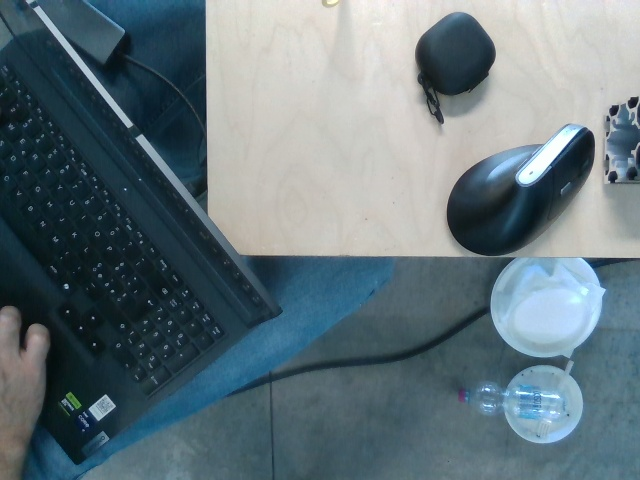
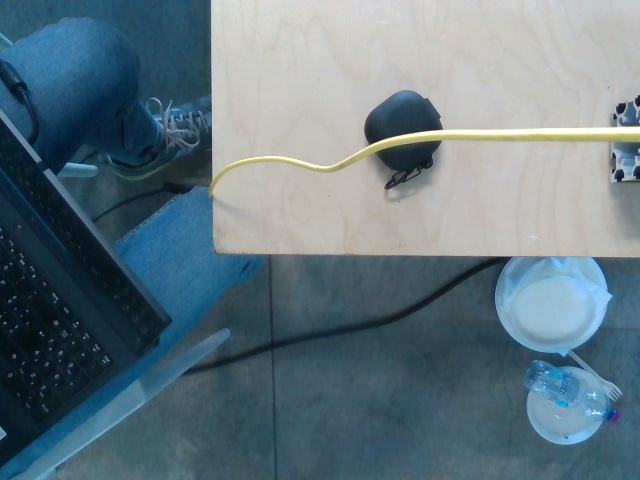
First working computer vision part

diff --git a/src/cyberwave_hackaton/detection/inference_live.py b/src/cyberwave_hackaton/detection/inference_live.py
@@ -1,7 +1,8 @@
 ''' 
 Sixth script: test the fine-tuned model.
 Captures a live frame from the RealSense camera when 'q' is pressed,
-then runs inference on it.
+then runs inference on it and computes the object pose w.r.t. the camera.
+Rotation around Z is estimated from the bounding box content using PCA.
 '''
 from ultralytics import YOLO
 from pathlib import Path
@@ -11,6 +12,8 @@ import cv2
 import numpy as np
 import pyrealsense2 as rs
 import os
+import glob
+from scipy.spatial.transform import Rotation
 
 # Imports for latex plots
 mpl.rcParams['text.usetex'] = True
@@ -21,10 +24,92 @@ import sys
 sys.path.append(os.path.dirname(os.path.abspath(__file__)))
 import fonts
 
+
+def euler_to_homogeneous(x, y, z, roll, pitch, yaw, degrees=True):
+    """
+    Build a 4x4 homogeneous matrix from translation and Euler angles.
+    Roll  = rotation around X
+    Pitch = rotation around Y
+    Yaw   = rotation around Z
+    Order: R = Rx @ Ry @ Rz (XYZ convention)
+    """
+    if degrees:
+        roll  = np.deg2rad(roll)
+        pitch = np.deg2rad(pitch)
+        yaw   = np.deg2rad(yaw)
+
+    Rx = np.array([[1,           0,            0],
+                   [0, np.cos(roll), -np.sin(roll)],
+                   [0, np.sin(roll),  np.cos(roll)]])
+
+    Ry = np.array([[ np.cos(pitch), 0, np.sin(pitch)],
+                   [0,              1,             0],
+                   [-np.sin(pitch), 0, np.cos(pitch)]])
+
+    Rz = np.array([[np.cos(yaw), -np.sin(yaw), 0],
+                   [np.sin(yaw),  np.cos(yaw), 0],
+                   [0,            0,            1]])
+
+    R = Rx @ Ry @ Rz
+
+    T = np.eye(4)
+    T[:3, :3] = R
+    T[:3, 3]  = [x, y, z]
+
+    return T
+
+
+def pixels_to_camera(u, v, z_c, fx, fy, cx, cy):
+    """
+    Convert pixel coordinates (u, v) to camera frame 3D coordinates
+    using the pinhole model.
+    """
+    X_c = (u - cx) * z_c / fx
+    Y_c = (v - cy) * z_c / fy
+    Z_c = z_c
+    return X_c, Y_c, Z_c
+
+
+def estimate_theta_z_from_box(image, x1, y1, x2, y2):
+    crop = image[int(y1):int(y2), int(x1):int(x2)]
+    if crop.size == 0:
+        return 0.0
+
+    gray = cv2.cvtColor(crop, cv2.COLOR_BGR2GRAY)
+    edges = cv2.Canny(gray, 50, 150)
+
+    points = np.column_stack(np.where(edges > 0)).astype(np.float32)
+    # points are (row, col) = (v, u)
+    if len(points) < 10:
+        return 0.0
+
+    mean, eigenvectors = cv2.PCACompute(points, mean=None)
+    # eigenvectors[0] = (dv, du) — principal axis
+    dv, du = eigenvectors[0]
+    # angle from u axis (X_c), positive = clockwise (toward Y_c = down)
+    angle = np.degrees(np.arctan2(dv, du))
+    return angle
+
+
+def compute_A_c_o(u, v, z_c, fx, fy, cx, cy, theta_z_deg=0.0):
+    """
+    Compute the homogeneous transform A_c_o:
+    pose of the object w.r.t. the camera frame.
+    Translation: from pixel center of bounding box via pinhole model.
+    Rotation:    only around Z axis.
+    """
+    X_c, Y_c, Z_c = pixels_to_camera(u, v, z_c, fx, fy, cx, cy)
+    A_c_o = euler_to_homogeneous(
+        x=X_c, y=Y_c, z=Z_c,
+        roll=0, pitch=0, yaw=theta_z_deg,
+        degrees=True
+    )
+    return A_c_o, (X_c, Y_c, Z_c)
+
+
 current_directory = os.path.dirname(os.path.abspath(__file__))
 
 # Load model — picks the latest training run automatically
-import glob
 weights = sorted(glob.glob(str(Path(current_directory) / "Model" / "cube_hackaton" / "train*" / "weights" / "best.pt")))
 if not weights:
     raise FileNotFoundError("No trained model found. Run fine_tuning.py first.")
@@ -35,11 +120,22 @@ model = YOLO(model_path)
 save_directory = Path(current_directory) / "Images" / "Inference"
 save_directory.mkdir(parents=True, exist_ok=True)
 
-# Start RealSense stream
+# Start RealSense stream and get intrinsics
 pipeline = rs.pipeline()
 config = rs.config()
 config.enable_stream(rs.stream.color, 640, 480, rs.format.bgr8, 30)
-pipeline.start(config)
+profile = pipeline.start(config)
+
+color_stream = profile.get_stream(rs.stream.color).as_video_stream_profile()
+intrinsics = color_stream.get_intrinsics()
+fx = intrinsics.fx
+fy = intrinsics.fy
+cx = intrinsics.ppx
+cy = intrinsics.ppy
+print(f"{fonts.blue_light}Camera intrinsics: fx={fx:.2f}, fy={fy:.2f}, cx={cx:.2f}, cy={cy:.2f}{fonts.reset}")
+
+# Fixed depth: camera points at table, z = 45 cm = 0.45 m
+Z_FIXED = 0.45
 
 print(f"{fonts.green}Live preview started. Press 'q' to capture and run inference.{fonts.reset}")
 
@@ -54,8 +150,6 @@ try:
             continue
 
         img = np.asanyarray(color_frame.get_data())
-
-        # Show live preview with instruction overlay
         preview = img.copy()
         cv2.putText(preview, "Press 'q' to capture for inference",
                     (10, 30), cv2.FONT_HERSHEY_SIMPLEX, 0.8, (0, 255, 0), 2)
@@ -75,25 +169,83 @@ if captured_frame is None:
     print(f"{fonts.red}No frame captured.{fonts.reset}")
     sys.exit(1)
 
-# Save the captured frame
+# Save captured frame
 capture_path = save_directory / "captured_frame.jpg"
 cv2.imwrite(str(capture_path), captured_frame)
 
-# Run inference
+# Run YOLO inference
 print(f"{fonts.green}Running inference...{fonts.reset}")
-results = model.predict(str(capture_path), imgsz=640, conf=0.2, save=False)
+results = model.predict(str(capture_path), imgsz=640, conf=0.6, save=False)
+boxes = results[0].boxes
+
+A_c_o = None
+if len(boxes) == 0:
+    print(f"{fonts.red}No object detected.{fonts.reset}")
+else:
+    for i, box in enumerate(boxes):
+        x1, y1, x2, y2 = box.xyxy[0].cpu().numpy()
+        u = (x1 + x2) / 2.0
+        v = (y1 + y2) / 2.0
+        conf = box.conf[0].item()
+
+        print(f"\n{fonts.purple}Detection #{i+1} | conf={conf:.2f}{fonts.reset}")
+        print(f"{fonts.green}  Bounding box center: u={u:.1f} px, v={v:.1f} px{fonts.reset}")
+
+        # Estimate theta_z from bounding box content using PCA
+        theta_z = estimate_theta_z_from_box(captured_frame, x1, y1, x2, y2)
+        print(f"{fonts.green}  Estimated theta_z (PCA) = {theta_z:.2f} deg{fonts.reset}")
+
+        A_c_o, (X_c, Y_c, Z_c) = compute_A_c_o(
+            u=u, v=v,
+            z_c=Z_FIXED,
+            fx=fx, fy=fy, cx=cx, cy=cy,
+            theta_z_deg=theta_z
+        )
+
+        print(f"{fonts.green}  Object position in camera frame:{fonts.reset}")
+        print(f"    X_c = {X_c:.4f} m")
+        print(f"    Y_c = {Y_c:.4f} m")
+        print(f"    Z_c = {Z_c:.4f} m  (fixed)")
+        print(f"{fonts.green}  A_c_o (homogeneous transform):{fonts.reset}")
+        print(A_c_o)
+
+        # Draw center and angle on image
+        cv2.circle(captured_frame, (int(u), int(v)), 6, (0, 0, 255), -1)
+        cv2.putText(captured_frame,
+                    f"({X_c:.2f}, {Y_c:.2f}, {Z_c:.2f}) m | theta_z={theta_z:.1f} deg",
+                    (int(x1), int(y1) - 10),
+                    cv2.FONT_HERSHEY_SIMPLEX, 0.5, (0, 0, 255), 2)
 
 # Display result
 detected_image = cv2.cvtColor(results[0].plot(), cv2.COLOR_BGR2RGB)
-
-# Save annotated result
 save_path = save_directory / "inference_result.jpg"
 plt.imsave(str(save_path), detected_image)
-print(f"{fonts.green}Result saved to: {save_path}{fonts.reset}")
+print(f"\n{fonts.green}Result saved to: {save_path}{fonts.reset}")
 
-# Show result
 plt.figure(figsize=(8, 6))
 plt.imshow(detected_image)
 plt.axis('off')
 plt.title(rf"\textbf{{Detection}}", fontsize=16)
 plt.show()
+
+# World transforms
+A_w_b = euler_to_homogeneous(x=0.0, y=0.0, z=0.07, roll=0, pitch=0, yaw=60)
+print(f"\n{fonts.green}A_w_b:{fonts.reset}")
+print(A_w_b)
+
+A_w_c = euler_to_homogeneous(x=-0.07, y=0.5, z=0.48, roll=180, pitch=0, yaw=60)
+print(f"\n{fonts.green}A_w_c:{fonts.reset}")
+print(A_w_c)
+
+if A_c_o is not None:
+    A_b_o = np.linalg.inv(A_w_b) @ A_w_c @ A_c_o
+    print(f"\n{fonts.green}A_b_o:{fonts.reset}")
+    print(A_b_o)
+
+    R = A_b_o[:3, :3]
+    angles = Rotation.from_matrix(R).as_euler('XYZ', degrees=True)
+    print(f"Roll  (X): {angles[0]:.4f} deg")
+    print(f"Pitch (Y): {angles[1]:.4f} deg")
+    print(f"Yaw   (Z): {angles[2]:.4f} deg")
+else:
+    print(f"{fonts.red}Skipping A_b_o: no detection.{fonts.reset}")